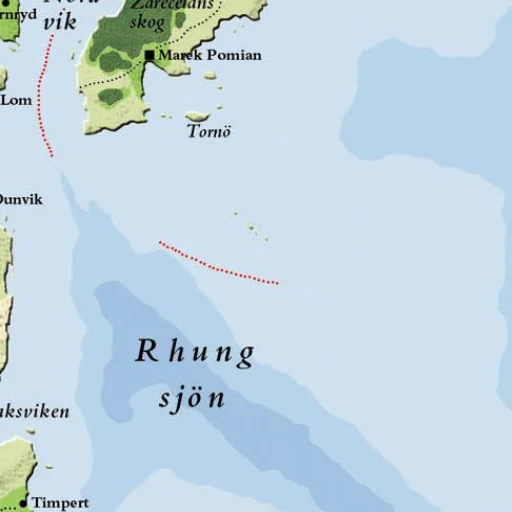
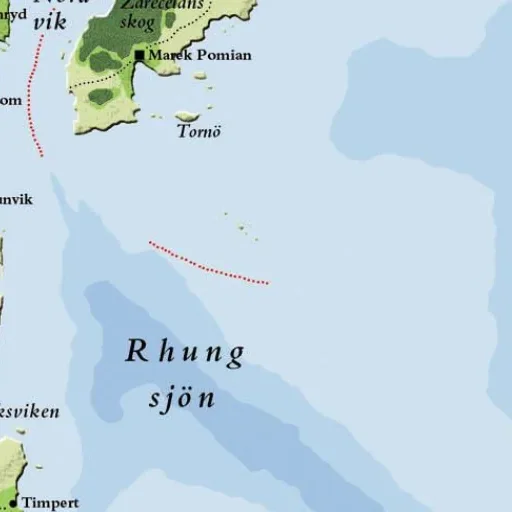
v1.29.3: move the Asharien layer 10 px left
Claude-Session: https://claude.ai/code/session_01JVATdQRTjHvh6ACghck5CM

diff --git a/CHANGELOG.md b/CHANGELOG.md
@@ -2,6 +2,10 @@
 
 Newest first. Versions from 1.x on are the combined app (Root and Rune + Weather generator).
 
+## v1.29.3 (combined app)
+Weather generator:
+- **The Asharien & Damarien layer moved a little to the left.** Fitted against the first Mundana map it sat about 1.3 map pixels (10 full-size pixels) too far to the right; the scale was right. It is moved 10 full-size pixels left with `tools/move-layer-piece.py`. The fit also suggests it could go about one map pixel north; that is left as it is.
+
 ## v1.29.2 (combined app)
 Weather generator:
 - **Caserion fits the map better.** The Caserion part of the layer *Gordrion, Vambolien & Caserion* was drawn about 4 % smaller than the first Mundana map and sat a few pixels too far south, which is why the south fitted and the north drifted. It is now scaled up 4 % (the north and south halves gave the same scale when fitted) and moved so that its north edge is about 5 map pixels further north; the place names now fall on the first map's. New tool `tools/scale-layer-piece.py` (like `move-layer-piece.py`, with a scale).
